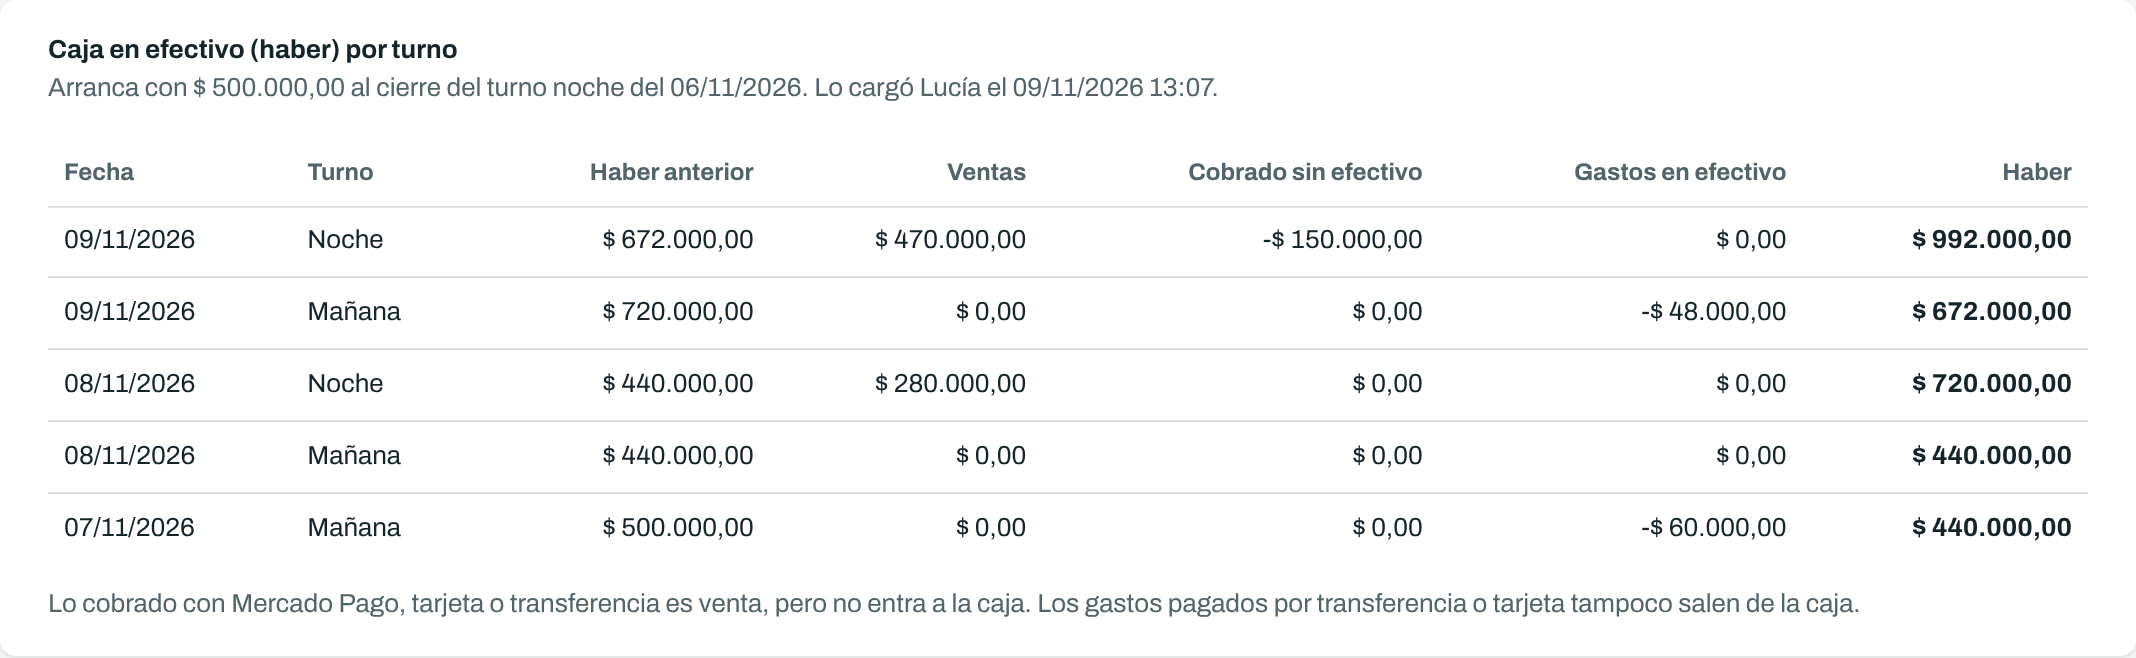
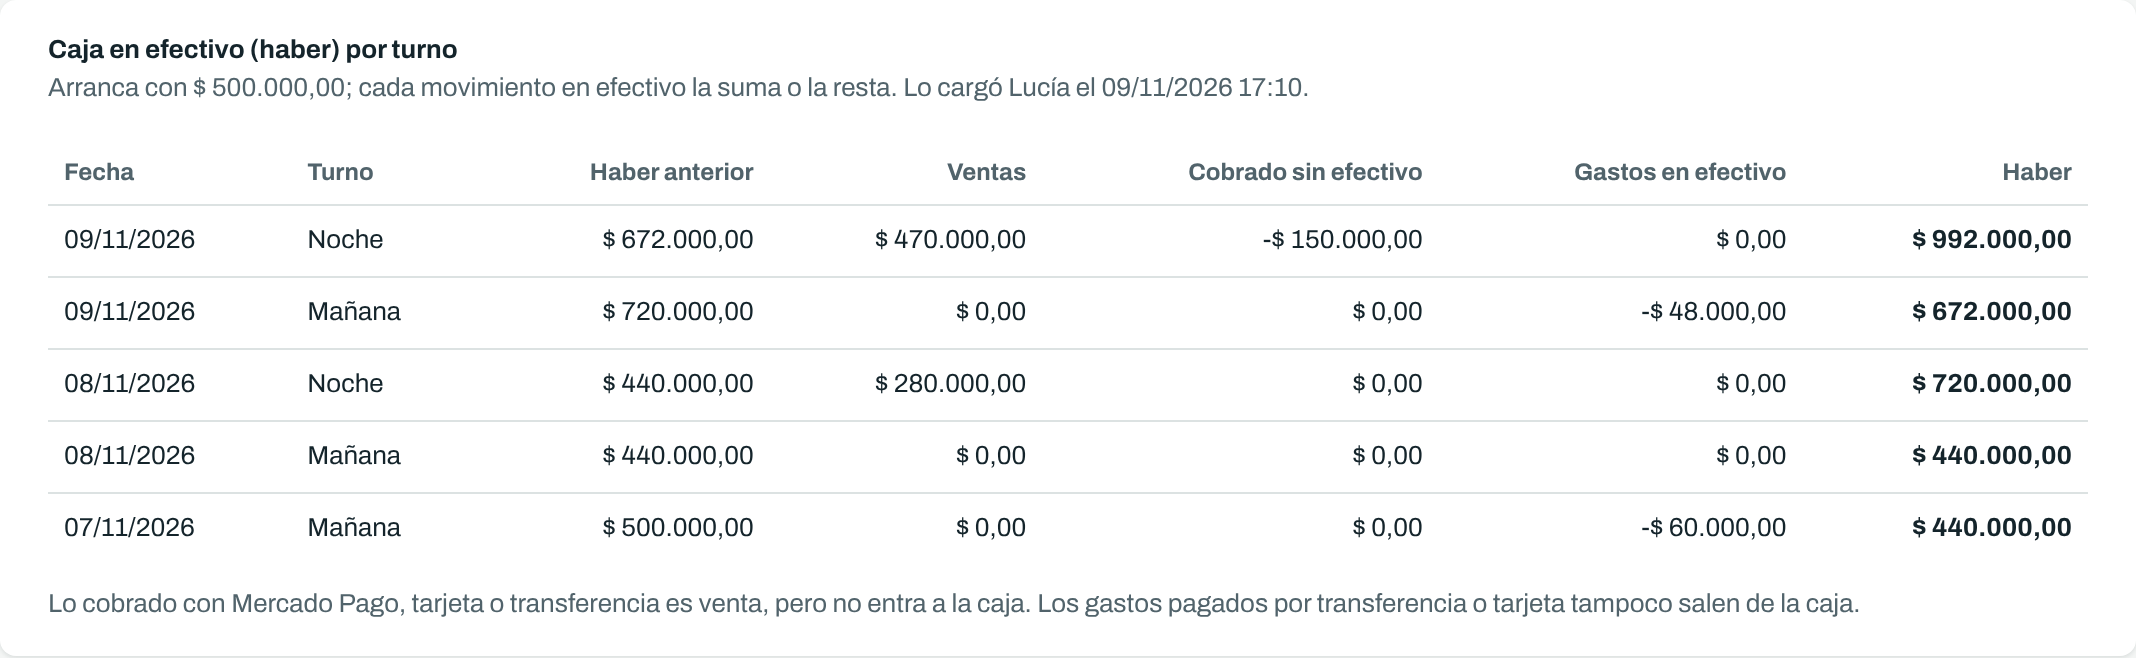
Opening haber is one amount, and the cash box refreshes by itself (ADR-0017)
On 09/11/2026 Emanuel loaded the opening haber and then his day, and the
box did not move. The opening was stored as "the cash at the close of a
day and shift" and only later entries counted. He set it to that same
night, so everything he loaded that day fell before it.

For him the opening is a number, not a moment: one amount, and every
movement updates it.

- The opening is only an amount. Every cash entry, of any date, adds to
  it or takes from it. The form asks only for the amount (and a reason
  when it changes). The API no longer takes date or shift.
- The cash bubble, the shift cash in Cargar and the list of the day ask
  again every 15 seconds, so loads from another device show up without
  a reload. It stops while the tab is in the background.
- Expand and contract: migration 0008 only makes date and shift
  nullable, no data changes, so the previous version still works with
  the opening already loaded. A later migration drops them.
- Loading old history some day would also move today's box. Written in
  the ADR.
- Browser test for Emanuel's case: opening, then a day of entries, and
  the box moves. Another for a second person loading.
- ADR-0017, P-16, guides and screenshots updated.

Changed region(s): [[0.0309, 0.304, 0.9888, 0.3343], [0.1545, 0.1216, 0.618, 0.152]]

diff --git a/frontend/src/componentes/TarjetaCaja.tsx b/frontend/src/componentes/TarjetaCaja.tsx
@@ -2,19 +2,13 @@ import { useState } from 'react';
 import { Tecla } from '../atajos/Atajos';
 import { diaLegible, fechaHora, leerMonto, pesos, problemaDeMonto } from '../lib/formato';
 import { servicios } from '../services';
-import { NOMBRE_TURNO, type Caja, type CierreCaja, type HaberInicial, type Turno } from '../types';
+import { NOMBRE_TURNO, type Caja, type CierreCaja, type HaberInicial } from '../types';
 import Badge from './Badge';
 import Button from './Button';
 import { CampoMonto } from './Campos';
 import Card from './Card';
 import DataTable from './DataTable';
 import Modal from './Modal';
-import SegmentedControl from './SegmentedControl';
-
-const TURNOS: { valor: Turno; etiqueta: string }[] = [
-  { valor: 'morning', etiqueta: 'Mañana' },
-  { valor: 'night', etiqueta: 'Noche' },
-];
 
 interface Props {
   /** La pide la pantalla, porque también la usa el indicador de caja. */
@@ -51,7 +45,8 @@ export default function TarjetaCaja({ caja, error, puedeCargarInicial, onCambio 
         {puedeCargarInicial ? (
           <>
             <p className="nota nota-inicial">
-              Para calcular la caja hace falta el punto de partida: el último haber anotado en el cuaderno, con su fecha y su turno.
+              Para calcular la caja hace falta el punto de partida: cuánta plata en efectivo hay en la caja. Desde ahí, cada movimiento en efectivo
+              que se cargue la suma o la resta.
             </p>
             <FormularioInicial onGuardado={guardado} />
           </>
@@ -128,14 +123,10 @@ export default function TarjetaCaja({ caja, error, puedeCargarInicial, onCambio 
 }
 
 const textoInicial = (i: HaberInicial) =>
-  `Arranca con ${pesos(i.monto)} al cierre del turno ${NOMBRE_TURNO[i.turno].toLowerCase()} del ${diaLegible(i.fecha)}. Lo cargó ${
-    i.cargadoPor
-  } el ${fechaHora(i.cargadoEl)}.`;
+  `Arranca con ${pesos(i.monto)}; cada movimiento en efectivo la suma o la resta. Lo cargó ${i.cargadoPor} el ${fechaHora(i.cargadoEl)}.`;
 
-/** Fecha, turno y monto del haber inicial. El motivo se pide solo al cambiarlo. */
+/** El monto del haber inicial: uno solo, sin fecha ni turno (ADR-0017). El motivo se pide solo al cambiarlo. */
 function useFormularioInicial(inicial?: HaberInicial) {
-  const [fecha, setFecha] = useState(inicial?.fecha ?? '');
-  const [turno, setTurno] = useState<Turno>(inicial?.turno ?? 'night');
   const [monto, setMonto] = useState(inicial ? inicial.monto.toLocaleString('es-AR', { minimumFractionDigits: 2 }) : '');
   const [motivo, setMotivo] = useState('');
   const [aviso, setAviso] = useState('');
@@ -143,13 +134,12 @@ function useFormularioInicial(inicial?: HaberInicial) {
 
   const guardar = async (onGuardado: () => void) => {
     if (guardando) return;
-    if (!fecha) return setAviso('Elegí la fecha del último haber anotado.');
     const problema = problemaDeMonto(monto, { permitirCero: true });
     if (problema) return setAviso(problema);
     const importe = leerMonto(monto);
     setGuardando(true);
     try {
-      await servicios.cuadernos.cargarHaberInicial(fecha, turno, importe, motivo);
+      await servicios.cuadernos.cargarHaberInicial(importe, motivo);
     } catch (err) {
       setAviso((err as Error).message);
       return;
@@ -161,15 +151,7 @@ function useFormularioInicial(inicial?: HaberInicial) {
 
   const campos = (
     <>
-      <label className="campo">
-        <span>Fecha del último haber anotado</span>
-        <input className="campo-texto" type="date" required value={fecha} onChange={(e) => setFecha(e.target.value)} />
-      </label>
-      <div className="campo">
-        <span>Turno</span>
-        <SegmentedControl etiqueta="Turno" opciones={TURNOS} valor={turno} onChange={setTurno} bloque />
-      </div>
-      <CampoMonto rotulo="Haber (efectivo en la caja)" valor={monto} onChange={setMonto} />
+      <CampoMonto rotulo="Haber inicial (efectivo en la caja)" valor={monto} onChange={setMonto} />
     </>
   );
 

diff --git a/frontend/e2e/caja-tiempo-real.spec.ts b/frontend/e2e/caja-tiempo-real.spec.ts
@@ -1,0 +1,41 @@
+import { cargarMovimiento, expect, ingresar, reiniciarDatos, test } from './ayuda';
+
+// La caja arranca del haber inicial y cada movimiento en efectivo la actualiza, también los que
+// cargan otras personas (ADR-0017). Local Norte: $ 500.000 de haber inicial; hoy termina en $ 995.000.
+test.beforeEach(reiniciarDatos);
+
+const reportes = async (page: import('@playwright/test').Page) => {
+  await page.getByRole('tab', { name: 'Reportes' }).click();
+  await expect(page.locator('.burbuja-caja')).toBeVisible();
+};
+
+test('lo cargado el mismo día que el haber inicial también mueve la caja', async ({ page }) => {
+  // Lo que le pasó a Ema el 09/11: cargó el haber inicial, después su día, y la caja no se movía.
+  await ingresar(page, 'lucia', { local: 'Local Centro' });
+  await reportes(page);
+  await page.locator('.tarjeta:has(h2:text("Caja en efectivo")) input[inputmode=decimal]').fill('1.000.000');
+  await page.getByRole('button', { name: /Guardar haber inicial/ }).click();
+  await expect(page.locator('.burbuja-caja')).toContainText('$ 1.000.000,00');
+
+  await page.getByRole('tab', { name: 'Cargar' }).click();
+  await cargarMovimiento(page, { tipo: 'Gasto', categoria: 'Proveedores', descripcion: 'Verdura', monto: '60.000', medio: 'Efectivo', turno: 'Mañana' });
+  await cargarMovimiento(page, { tipo: 'Ingreso', categoria: 'Ventas', descripcion: 'Mostrador', monto: '200.000', medio: 'Efectivo', turno: 'Noche' });
+  await cargarMovimiento(page, { tipo: 'Gasto', categoria: 'Proveedores', descripcion: 'Carne', monto: '80.000', medio: 'Transferencia', turno: 'Noche' });
+
+  await reportes(page);
+  await expect(page.locator('.burbuja-caja')).toContainText('$ 1.140.000,00'); // 1.000.000 - 60.000 + 200.000
+});
+
+test('si otra persona carga, la caja se actualiza sola, sin recargar', async ({ page, nuevaPagina }) => {
+  await ingresar(page, 'lucia', { local: 'Local Norte' });
+  await reportes(page);
+  const burbuja = page.locator('.burbuja-caja');
+  await expect(burbuja).toContainText('$ 995.000,00');
+
+  const tomas = await nuevaPagina();
+  await ingresar(tomas, 'tomas');
+  await cargarMovimiento(tomas, { tipo: 'Gasto', categoria: 'Proveedores', descripcion: 'Hielo', monto: '5.000', medio: 'Efectivo' });
+
+  // Se vuelve a pedir cada 15 segundos.
+  await expect(burbuja).toContainText('$ 990.000,00', { timeout: 20_000 });
+});

diff --git a/frontend/src/lib/useConsulta.ts b/frontend/src/lib/useConsulta.ts
@@ -1,7 +1,18 @@
 import { useCallback, useEffect, useState } from 'react';
 
+/** Cada cuánto se vuelve a pedir lo que se ve "en tiempo real" (la caja). */
+export const REFRESCO_MS = 15_000;
+
+interface Opciones {
+  /**
+   * Volver a pedir solo cada tantos milisegundos, para ver lo que cargan otras personas sin recargar
+   * la página. Se frena con la pestaña en segundo plano y pide de nuevo al volver a ella.
+   */
+  cadaMs?: number;
+}
+
 /** Pide datos a un servicio y los vuelve a pedir cuando cambian las dependencias o se recarga. */
-export function useConsulta<T>(pedir: () => Promise<T>, deps: unknown[]) {
+export function useConsulta<T>(pedir: () => Promise<T>, deps: unknown[], { cadaMs }: Opciones = {}) {
   const [datos, setDatos] = useState<T | null>(null);
   const [error, setError] = useState<string | null>(null);
   const [vuelta, setVuelta] = useState(0);
@@ -22,5 +33,19 @@ export function useConsulta<T>(pedir: () => Promise<T>, deps: unknown[]) {
   }, [...deps, vuelta]);
 
   const recargar = useCallback(() => setVuelta((v) => v + 1), []);
+
+  // Mientras llega lo nuevo se sigue viendo lo anterior: nada parpadea.
+  useEffect(() => {
+    if (!cadaMs) return;
+    const visible = () => document.visibilityState === 'visible';
+    const reloj = setInterval(() => visible() && recargar(), cadaMs);
+    const alVolver = () => visible() && recargar();
+    document.addEventListener('visibilitychange', alVolver);
+    return () => {
+      clearInterval(reloj);
+      document.removeEventListener('visibilitychange', alVolver);
+    };
+  }, [cadaMs, recargar]);
+
   return { datos, error, recargar };
 }

diff --git a/frontend/src/componentes/CajaDelTurno.tsx b/frontend/src/componentes/CajaDelTurno.tsx
@@ -1,6 +1,6 @@
 import { cajaDelTurno } from '../lib/caja';
 import { pesos } from '../lib/formato';
-import { useConsulta } from '../lib/useConsulta';
+import { REFRESCO_MS, useConsulta } from '../lib/useConsulta';
 import { servicios } from '../services';
 import { NOMBRE_TURNO, type Turno } from '../types';
 
@@ -9,16 +9,14 @@ import { NOMBRE_TURNO, type Turno } from '../types';
  * plata y compararla. Se vuelve a pedir cada vez que se guarda, corrige o anula algo (`vuelta`).
  */
 export default function CajaDelTurno({ dia, turno, vuelta }: { dia: string; turno: Turno; vuelta: number }) {
-  const { datos: caja, error } = useConsulta(() => servicios.cuadernos.caja({ desde: dia, hasta: dia }), [dia, vuelta]);
+  // Cada 15 segundos, para ver también lo que cargan otras personas (ADR-0017).
+  const { datos: caja, error } = useConsulta(() => servicios.cuadernos.caja({ desde: dia, hasta: dia }), [dia, vuelta], { cadaMs: REFRESCO_MS });
   if (error || !caja) return null; // la carga sigue andando aunque la caja no llegue
 
   const estado = cajaDelTurno(caja, dia, turno);
   const rotulo = `Caja al cerrar la ${NOMBRE_TURNO[turno].toLowerCase()}`;
   if (estado.estado === 'sinInicial') {
     return <p className="caja-turno caja-turno-sin">Todavía no hay haber inicial: el dueño lo carga en Reportes.</p>;
-  }
-  if (estado.estado === 'antesDelInicial') {
-    return <p className="caja-turno caja-turno-sin">Esta fecha es anterior al haber inicial: no hay caja para mostrar.</p>;
   }
   return (
     <p className={`caja-turno${estado.negativo ? ' caja-turno-negativa' : ''}`} role="status" aria-live="polite">

diff --git a/frontend/src/componentes/BurbujaCaja.tsx b/frontend/src/componentes/BurbujaCaja.tsx
@@ -1,6 +1,6 @@
 import { useState } from 'react';
 import { fechaIso, pesos } from '../lib/formato';
-import { useConsulta } from '../lib/useConsulta';
+import { REFRESCO_MS, useConsulta } from '../lib/useConsulta';
 import { servicios } from '../services';
 
 const CLAVE_OCULTA = 'cuadernos:caja-oculta';
@@ -30,7 +30,8 @@ function guardarOculta(oculta: boolean) {
  */
 export default function BurbujaCaja({ vuelta }: { vuelta: number }) {
   const hoy = fechaIso(new Date());
-  const { datos: caja, error } = useConsulta(() => servicios.cuadernos.caja({ desde: hoy, hasta: hoy }), [hoy, vuelta]);
+  // Cada 15 segundos: así se ve lo que cargan otras personas, sin recargar la página (ADR-0017).
+  const { datos: caja, error } = useConsulta(() => servicios.cuadernos.caja({ desde: hoy, hasta: hoy }), [hoy, vuelta], { cadaMs: REFRESCO_MS });
   const [oculta, setOculta] = useState(ocultaGuardada);
 
   const alternar = () => {
@@ -43,8 +44,7 @@ export default function BurbujaCaja({ vuelta }: { vuelta: number }) {
   let valor: string;
   if (error) valor = 'No se pudo calcular';
   else if (!caja) valor = '…';
-  else if (!caja.inicial) valor = 'Falta el haber inicial';
-  else if (haber === null) valor = 'Todavía no empezó';
+  else if (!caja.inicial || haber === null) valor = 'Falta el haber inicial';
   else valor = pesos(haber);
   const conNumero = haber !== null && !error;
 

diff --git a/frontend/e2e/caja.spec.ts b/frontend/e2e/caja.spec.ts
@@ -1,7 +1,7 @@
 import { accion, cargarMovimiento, CELULAR, expect, ingresar, irACargar, irAReportes, primeraTabla, reiniciarDatos, sinDesborde, test } from './ayuda';
 import type { Page } from '@playwright/test';
 
-// Caja en efectivo por turno (ADR-0008). El seed arranca con haber inicial de $ 500.000 la noche del 8/3.
+// Caja en efectivo por turno (ADR-0008, ADR-0017). El seed arranca con haber inicial de $ 500.000.
 test.beforeEach(reiniciarDatos);
 
 const caja = (p: Page) => p.locator('.tarjeta', { has: p.getByRole('heading', { name: /Caja en efectivo/ }) });
@@ -65,8 +65,7 @@ test('sin haber inicial, consulta lo ve dicho; la dueña lo carga y lo cambia co
   await ingresar(page, 'lucia', { local: 'Local Centro' });
   await irAReportes(page);
   const c = caja(page);
-  await c.locator('input[type=date]').fill('2026-03-01');
-  await c.getByRole('button', { name: 'Noche' }).click();
+  await expect(c.locator('input[type=date]'), 'solo el monto: sin fecha ni turno').toHaveCount(0);
   await c.locator('input[inputmode=decimal]').fill('1.234.567,89');
   await c.getByRole('button', { name: /Guardar haber inicial/ }).click();
   await expect(c).toContainText('Arranca con $ 1.234.567,89');

diff --git a/frontend/src/services/api/cuadernos.ts b/frontend/src/services/api/cuadernos.ts
@@ -82,7 +82,7 @@ const cuerpo = (m: MovimientoNuevo) => ({
 });
 
 interface CashApi {
-  opening: { date: string; shift: Turno; amount: string; updated_by: string; updated_at: string } | null;
+  opening: { amount: string; updated_by: string; updated_at: string } | null;
   haber_at_end: string | null;
   closes: {
     date: string;
@@ -99,8 +99,6 @@ interface CashApi {
 
 const aCaja = (c: CashApi): Caja => ({
   inicial: c.opening && {
-    fecha: c.opening.date,
-    turno: c.opening.shift,
     monto: Number(c.opening.amount),
     cargadoPor: c.opening.updated_by,
     cargadoEl: c.opening.updated_at,
@@ -177,8 +175,8 @@ export const cuadernosApi: CuadernosService = {
     return aCaja(await pedir<CashApi>('GET', `/notebooks/cash/?from=${rango.desde}&to=${rango.hasta}`));
   },
 
-  async cargarHaberInicial(fecha, turno, monto, motivo) {
-    await pedir('PUT', '/notebooks/cash/opening/', { date: fecha, shift: turno, amount: monto.toFixed(2), reason: motivo });
+  async cargarHaberInicial(monto, motivo) {
+    await pedir('PUT', '/notebooks/cash/opening/', { amount: monto.toFixed(2), reason: motivo });
   },
 
   async descripciones(tipo, texto) {

diff --git a/frontend/src/pantallas/Cuadernos.tsx b/frontend/src/pantallas/Cuadernos.tsx
@@ -21,7 +21,7 @@ import { useSesion } from '../estado/Sesion';
 import { rangoDelMes, rangoEsteMes, rangoValido } from '../lib/fechas';
 import { MONTO_ILEGIBLE, diaConNombre, diaLegible, fechaHora, fechaIso, leerMonto, pesos, pesosEnteros, problemaDeMonto } from '../lib/formato';
 import { recordarTurno, turnoSugerido } from '../lib/turno';
-import { useConsulta } from '../lib/useConsulta';
+import { REFRESCO_MS, useConsulta } from '../lib/useConsulta';
 import { useDemorado } from '../lib/useDemorado';
 import { servicios } from '../services';
 import {
@@ -307,6 +307,8 @@ function SolapaCargar({ categorias, mediosVenta, puedeCrearCategorias, recargarC
         ? servicios.cuadernos.movimientos({ desde: dia, hasta: dia }, SIN_FILTROS, 1000).then((p) => p.movimientos)
         : Promise.resolve([]),
     [dia, vuelta],
+    // Igual que la caja de arriba: si otra persona carga en el mismo día, aparece solo.
+    { cadaMs: REFRESCO_MS },
   );
   const ingresos = (delDia ?? []).filter((m) => m.tipo === 'ingreso').reduce((t, m) => t + m.monto, 0);
   const gastos = (delDia ?? []).filter((m) => m.tipo === 'egreso').reduce((t, m) => t + m.monto, 0);

diff --git a/frontend/src/lib/caja.ts b/frontend/src/lib/caja.ts
@@ -1,10 +1,7 @@
 import type { Caja, Turno } from '../types';
 
 /** Lo que muestra Cargar sobre la caja de un turno. */
-export type CajaDelTurno =
-  | { estado: 'sinInicial' }
-  | { estado: 'antesDelInicial' }
-  | { estado: 'ok'; haber: number; negativo: boolean };
+export type CajaDelTurno = { estado: 'sinInicial' } | { estado: 'ok'; haber: number; negativo: boolean };
 
 /**
  * El efectivo que debería haber al cerrar un turno, a partir de la caja de ese día (ADR-0008).
@@ -14,8 +11,7 @@ export type CajaDelTurno =
  * haber al terminar el día, que la API calcula con los días anteriores.
  */
 export function cajaDelTurno(caja: Caja, dia: string, turno: Turno): CajaDelTurno {
-  if (!caja.inicial) return { estado: 'sinInicial' };
-  if (caja.haberAlFinal === null) return { estado: 'antesDelInicial' };
+  if (!caja.inicial || caja.haberAlFinal === null) return { estado: 'sinInicial' };
   const delDia = caja.cierres.filter((c) => c.fecha === dia);
   const propio = delDia.find((c) => c.turno === turno);
   if (propio) return { estado: 'ok', haber: propio.despues, negativo: propio.negativo };

diff --git a/frontend/src/lib/caja.test.ts b/frontend/src/lib/caja.test.ts
@@ -2,7 +2,7 @@ import { describe, expect, it } from 'vitest';
 import type { Caja, CierreCaja } from '../types';
 import { cajaDelTurno } from './caja';
 
-const inicial = { fecha: '2026-11-01', turno: 'night' as const, monto: 500000, cargadoPor: 'Lucía', cargadoEl: '2026-11-01T22:00:00' };
+const inicial = { monto: 500000, cargadoPor: 'Lucía', cargadoEl: '2026-11-01T22:00:00' };
 
 const cierre = (fecha: string, turno: 'morning' | 'night', antes: number, despues: number): CierreCaja => ({
   fecha,
@@ -21,10 +21,6 @@ const caja = (cierres: CierreCaja[], haberAlFinal: number | null): Caja => ({ in
 describe('cajaDelTurno', () => {
   it('sin haber inicial no hay caja', () => {
     expect(cajaDelTurno({ inicial: null, cierres: [], haberAlFinal: null }, '2026-11-05', 'night')).toEqual({ estado: 'sinInicial' });
-  });
-
-  it('antes del haber inicial tampoco', () => {
-    expect(cajaDelTurno(caja([], null), '2026-10-20', 'night')).toEqual({ estado: 'antesDelInicial' });
   });
 
   it('con movimientos en el turno, es su cierre', () => {

diff --git a/frontend/src/services/contratos.ts b/frontend/src/services/contratos.ts
@@ -12,7 +12,6 @@ import type {
   ResumenCuadernos,
   Sesion,
   TipoMovimiento,
-  Turno,
 } from '../types';
 
 /** Ingreso, salida y local activo. Cada método devuelve la sesión como quedó. */
@@ -40,7 +39,7 @@ export interface CuadernosService {
   /** La caja por turno en el período. No sigue los filtros: es la caja entera. */
   caja(rango: RangoFechas): Promise<Caja>;
   /** Solo el dueño. Cambiarlo pide motivo, porque mueve todos los haberes siguientes. */
-  cargarHaberInicial(fecha: string, turno: Turno, monto: number, motivo: string): Promise<void>;
+  cargarHaberInicial(monto: number, motivo: string): Promise<void>;
   /** Descripciones ya usadas en el local para ese tipo, para sugerirlas al cargar (HU-030). */
   descripciones(tipo: TipoMovimiento, texto: string): Promise<string[]>;
   /** Lo ve todo el que entra al local: la carga lo necesita para saber cuándo proponer la venta. */

diff --git a/frontend/src/types.ts b/frontend/src/types.ts
@@ -115,9 +115,8 @@ export interface MesDelAnio {
 }
 
 /** El último haber anotado en papel: la caja arranca de ahí (P-01). */
+/** El efectivo con el que arranca la caja. Un solo monto: cada movimiento en efectivo lo suma o resta (ADR-0017). */
 export interface HaberInicial {
-  fecha: string;
-  turno: Turno;
   monto: number;
   cargadoPor: string;
   cargadoEl: string;
